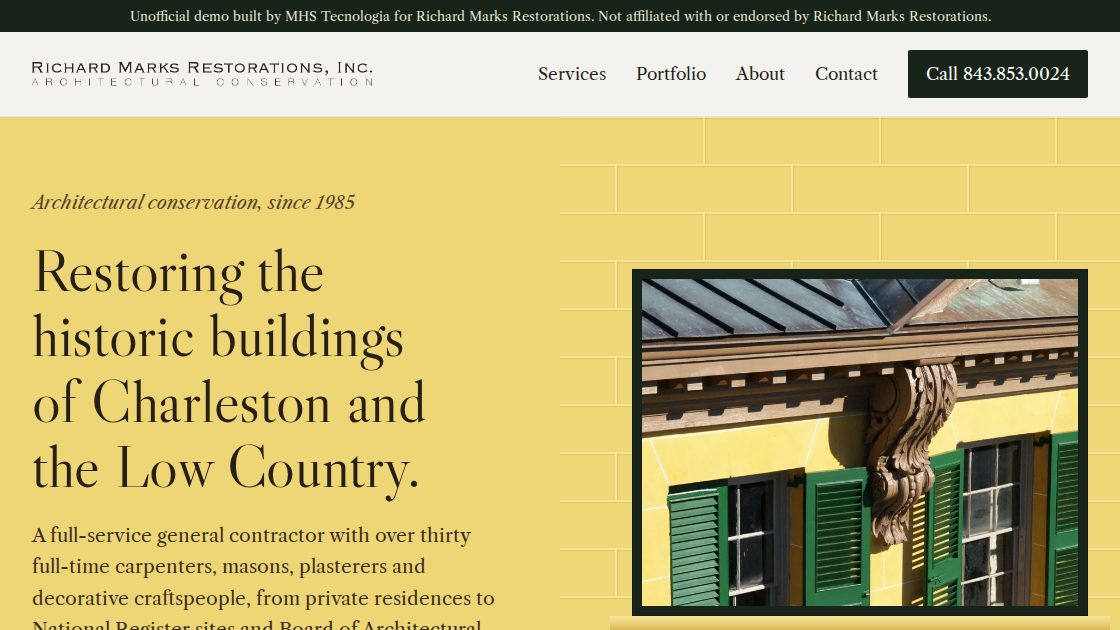
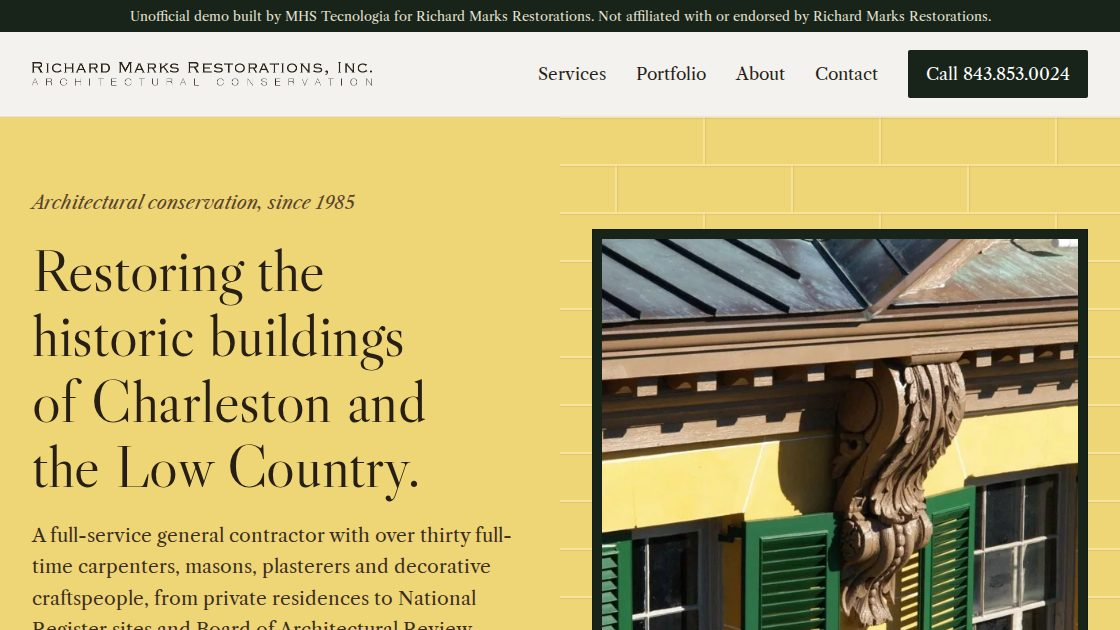
Previews: 79 ativos

Changed region(s): [[0.5312, 0.3619, 1.0, 1.0], [0.0312, 0.8444, 0.4688, 1.0]]

diff --git a/richard-marks-restorations-charleston-sc/index.html b/richard-marks-restorations-charleston-sc/index.html
@@ -71,20 +71,19 @@ p{margin:0 0 1em;max-width:62ch}
 .btn.line{background:transparent;color:var(--night)}
 .btn.line:hover{background:rgb(24 36 26/.08)}
 .btn svg{width:18px;height:18px;flex:none}
-.short{display:none}
 .actions{display:flex;flex-wrap:wrap;gap:12px;margin-top:28px}
 
 /* ------------------------------------------------------------------ hero: a window set in scored stucco */
-.hero{background:linear-gradient(90deg,var(--stucco) 50%,transparent 50%),var(--scoring) var(--stucco);background-position:0 0,-1px -1px;position:relative}
+.hero{background:linear-gradient(90deg,var(--stucco) 50%,transparent 50%),var(--scoring) var(--stucco);background-position:0 0,-1px -1px;position:relative;overflow-x:clip}
 .hero .wrap{display:grid;grid-template-columns:minmax(0,1fr) minmax(0,1fr);gap:0;align-items:stretch}
-.hero-copy{padding:72px 56px 76px 0}
+.hero-copy{padding:72px 48px 76px 0}
 .hero-copy p{font-size:1.1875rem;color:#3A2D20;margin-top:22px;max-width:34em}
 .hero-copy .since{font-style:italic;font-size:1.125rem;margin:0 0 18px;color:var(--wood)}
-.facade{padding:56px 0 0 72px;display:flex;flex-direction:column;justify-content:center}
-.window{position:relative;perspective:1200px;background:var(--night);padding:10px;box-shadow:inset 0 0 0 1px rgb(0 0 0/.2)}
-.window img{width:100%;aspect-ratio:4/3;object-fit:cover}
+.facade{padding:36px 0 0 32px;display:flex;flex-direction:column;justify-content:flex-end}
+.window{position:relative;perspective:1200px;background:var(--night);padding:10px;box-shadow:inset 0 0 0 1px rgb(0 0 0/.2);overflow:clip}
+.window img{width:100%;aspect-ratio:1/1;object-fit:cover;object-position:60% 50%}
 .sill{height:18px;margin:0 -22px;background:linear-gradient(#F7E6A0,#E3C565 60%,#C9A94A);box-shadow:0 10px 16px -8px rgb(70 50 10/.45)}
-.cap{font-style:italic;font-size:.9375rem;color:#4A3B2A;padding:14px 0 40px;margin:0}
+.cap{font-style:italic;font-size:.9375rem;color:#4A3B2A;padding:12px 0 28px;margin:0}
 .shutter{position:absolute;top:10px;bottom:10px;width:calc(50% - 10px);background:repeating-linear-gradient(180deg,#2B5A2D 0 9px,#1B3A1D 9px 12px);border:4px solid #224A24;box-shadow:inset 0 0 0 2px #18321A;transform-style:preserve-3d;backface-visibility:hidden;pointer-events:none}
 .shutter.l{left:10px;transform-origin:left center;animation:open-l 1.25s cubic-bezier(.5,0,.2,1) .35s both}
 .shutter.r{right:10px;transform-origin:right center;animation:open-r 1.25s cubic-bezier(.5,0,.2,1) .35s both}
@@ -146,9 +145,8 @@ section{padding:96px 0}
 .call-card .actions{margin-top:20px}
 
 /* services page */
-.svc{display:grid;grid-template-columns:minmax(0,5fr) minmax(0,7fr);gap:64px;align-items:start;padding:72px 0;border-bottom:1px solid #CFC8B8}
+.svc{display:grid;grid-template-columns:minmax(0,400px) minmax(0,1fr);gap:64px;align-items:start;padding:72px 0;border-bottom:1px solid #CFC8B8}
 .svc:last-child{border-bottom:0}
-.svc:nth-child(even) figure{order:2}
 .svc figure{margin:0}
 .svc figure img{width:100%;aspect-ratio:4/3;object-fit:cover}
 .svc h2{margin-bottom:22px}
@@ -228,7 +226,7 @@ section{padding:96px 0}
   .facade{order:-1;padding:14px 16px 0;background:var(--scoring);background-position:-1px -1px}
   .notice{font-size:.75rem;padding:6px 12px}
   .window{padding:6px}
-  .window img{aspect-ratio:16/9}
+  .window img{aspect-ratio:2/1;object-position:50% 50%}
   .shutter{top:6px;bottom:6px;width:calc(50% - 6px)}.shutter.l{left:6px}.shutter.r{right:6px}
   .sill{height:12px;margin:0 -10px}
   .cap{display:none}
@@ -237,8 +235,8 @@ section{padding:96px 0}
   .hero-copy p{font-size:1.0625rem;margin-top:14px;line-height:1.55}
   .actions{margin-top:20px}
   .lead-in,.shop,.founder,.svc,.bio,.contact,.call-card{grid-template-columns:1fr;gap:28px}
-  .svc:nth-child(even) figure{order:0}
   .trio{grid-template-columns:1fr;gap:44px}
+  .trio article img,.svc figure img{height:240px;aspect-ratio:auto}
   .firm-facts{grid-template-columns:1fr;gap:24px}
   .foot .cols{grid-template-columns:1fr}
   .founder img{max-width:260px}
@@ -251,10 +249,8 @@ section{padding:96px 0}
   .top .wrap{min-height:64px;gap:12px}
   .brand img{width:220px}
   section{padding:64px 0}
-  .hero-copy .actions{display:grid;grid-template-columns:1fr 1fr;gap:10px}
-  .hero-copy .actions .btn{padding:12px 10px}
-  .hero .long{display:none}
-  .hero .short{display:inline}
+  .hero-copy .actions{gap:10px;margin-top:18px}
+  .hero-copy .actions .btn{min-height:48px;flex:1 1 100%}
   .rooms{gap:28px 12px}
   .rooms .room{grid-column:span 6}
   .rooms .room.wide{grid-column:span 12}
@@ -298,7 +294,7 @@ section{padding:96px 0}
     <p class="since">Architectural conservation, since 1985</p>
     <h1>Restoring the historic buildings of Charleston and the Low Country.</h1>
     <p>A full-service general contractor with over thirty full-time carpenters, masons, plasterers and decorative craftspeople, from private residences to National Register sites and Board of Architectural Review submittals.</p>
-    <div class="actions"><a class="btn solid" href="tel:+18438530024"><svg viewBox="0 0 24 24" aria-hidden="true" fill="none" stroke="currentColor" stroke-width="1.8"><path d="M5 3h4l2 5-2.5 1.5a11 11 0 0 0 6 6L16 13l5 2v4a2 2 0 0 1-2 2A16 16 0 0 1 3 5a2 2 0 0 1 2-2z"/></svg>Call<span class="long"> 843.853.0024</span><span class="short"> office</span></a><a class="btn line" href="mailto:rmr@richardmarksrestorations.com?subject=Preservation%20project"><svg viewBox="0 0 24 24" aria-hidden="true" fill="none" stroke="currentColor" stroke-width="1.8"><rect x="3" y="5" width="18" height="14" rx="1"/><path d="m3 7 9 6 9-6"/></svg>Email<span class="long"> the office</span><span class="short"> office</span></a></div>
+    <div class="actions"><a class="btn solid" href="tel:+18438530024"><svg viewBox="0 0 24 24" aria-hidden="true" fill="none" stroke="currentColor" stroke-width="1.8"><path d="M5 3h4l2 5-2.5 1.5a11 11 0 0 0 6 6L16 13l5 2v4a2 2 0 0 1-2 2A16 16 0 0 1 3 5a2 2 0 0 1 2-2z"/></svg>Call 843.853.0024</a><a class="btn line" href="mailto:rmr@richardmarksrestorations.com?subject=Preservation%20project"><svg viewBox="0 0 24 24" aria-hidden="true" fill="none" stroke="currentColor" stroke-width="1.8"><rect x="3" y="5" width="18" height="14" rx="1"/><path d="m3 7 9 6 9-6"/></svg>Email the office</a></div>
   </div>
   <div class="facade">
     <figure class="window" style="margin:0">

diff --git a/richard-marks-restorations-charleston-sc/about.html b/richard-marks-restorations-charleston-sc/about.html
@@ -70,20 +70,19 @@ p{margin:0 0 1em;max-width:62ch}
 .btn.line{background:transparent;color:var(--night)}
 .btn.line:hover{background:rgb(24 36 26/.08)}
 .btn svg{width:18px;height:18px;flex:none}
-.short{display:none}
 .actions{display:flex;flex-wrap:wrap;gap:12px;margin-top:28px}
 
 /* ------------------------------------------------------------------ hero: a window set in scored stucco */
-.hero{background:linear-gradient(90deg,var(--stucco) 50%,transparent 50%),var(--scoring) var(--stucco);background-position:0 0,-1px -1px;position:relative}
+.hero{background:linear-gradient(90deg,var(--stucco) 50%,transparent 50%),var(--scoring) var(--stucco);background-position:0 0,-1px -1px;position:relative;overflow-x:clip}
 .hero .wrap{display:grid;grid-template-columns:minmax(0,1fr) minmax(0,1fr);gap:0;align-items:stretch}
-.hero-copy{padding:72px 56px 76px 0}
+.hero-copy{padding:72px 48px 76px 0}
 .hero-copy p{font-size:1.1875rem;color:#3A2D20;margin-top:22px;max-width:34em}
 .hero-copy .since{font-style:italic;font-size:1.125rem;margin:0 0 18px;color:var(--wood)}
-.facade{padding:56px 0 0 72px;display:flex;flex-direction:column;justify-content:center}
-.window{position:relative;perspective:1200px;background:var(--night);padding:10px;box-shadow:inset 0 0 0 1px rgb(0 0 0/.2)}
-.window img{width:100%;aspect-ratio:4/3;object-fit:cover}
+.facade{padding:36px 0 0 32px;display:flex;flex-direction:column;justify-content:flex-end}
+.window{position:relative;perspective:1200px;background:var(--night);padding:10px;box-shadow:inset 0 0 0 1px rgb(0 0 0/.2);overflow:clip}
+.window img{width:100%;aspect-ratio:1/1;object-fit:cover;object-position:60% 50%}
 .sill{height:18px;margin:0 -22px;background:linear-gradient(#F7E6A0,#E3C565 60%,#C9A94A);box-shadow:0 10px 16px -8px rgb(70 50 10/.45)}
-.cap{font-style:italic;font-size:.9375rem;color:#4A3B2A;padding:14px 0 40px;margin:0}
+.cap{font-style:italic;font-size:.9375rem;color:#4A3B2A;padding:12px 0 28px;margin:0}
 .shutter{position:absolute;top:10px;bottom:10px;width:calc(50% - 10px);background:repeating-linear-gradient(180deg,#2B5A2D 0 9px,#1B3A1D 9px 12px);border:4px solid #224A24;box-shadow:inset 0 0 0 2px #18321A;transform-style:preserve-3d;backface-visibility:hidden;pointer-events:none}
 .shutter.l{left:10px;transform-origin:left center;animation:open-l 1.25s cubic-bezier(.5,0,.2,1) .35s both}
 .shutter.r{right:10px;transform-origin:right center;animation:open-r 1.25s cubic-bezier(.5,0,.2,1) .35s both}
@@ -145,9 +144,8 @@ section{padding:96px 0}
 .call-card .actions{margin-top:20px}
 
 /* services page */
-.svc{display:grid;grid-template-columns:minmax(0,5fr) minmax(0,7fr);gap:64px;align-items:start;padding:72px 0;border-bottom:1px solid #CFC8B8}
+.svc{display:grid;grid-template-columns:minmax(0,400px) minmax(0,1fr);gap:64px;align-items:start;padding:72px 0;border-bottom:1px solid #CFC8B8}
 .svc:last-child{border-bottom:0}
-.svc:nth-child(even) figure{order:2}
 .svc figure{margin:0}
 .svc figure img{width:100%;aspect-ratio:4/3;object-fit:cover}
 .svc h2{margin-bottom:22px}
@@ -227,7 +225,7 @@ section{padding:96px 0}
   .facade{order:-1;padding:14px 16px 0;background:var(--scoring);background-position:-1px -1px}
   .notice{font-size:.75rem;padding:6px 12px}
   .window{padding:6px}
-  .window img{aspect-ratio:16/9}
+  .window img{aspect-ratio:2/1;object-position:50% 50%}
   .shutter{top:6px;bottom:6px;width:calc(50% - 6px)}.shutter.l{left:6px}.shutter.r{right:6px}
   .sill{height:12px;margin:0 -10px}
   .cap{display:none}
@@ -236,8 +234,8 @@ section{padding:96px 0}
   .hero-copy p{font-size:1.0625rem;margin-top:14px;line-height:1.55}
   .actions{margin-top:20px}
   .lead-in,.shop,.founder,.svc,.bio,.contact,.call-card{grid-template-columns:1fr;gap:28px}
-  .svc:nth-child(even) figure{order:0}
   .trio{grid-template-columns:1fr;gap:44px}
+  .trio article img,.svc figure img{height:240px;aspect-ratio:auto}
   .firm-facts{grid-template-columns:1fr;gap:24px}
   .foot .cols{grid-template-columns:1fr}
   .founder img{max-width:260px}
@@ -250,10 +248,8 @@ section{padding:96px 0}
   .top .wrap{min-height:64px;gap:12px}
   .brand img{width:220px}
   section{padding:64px 0}
-  .hero-copy .actions{display:grid;grid-template-columns:1fr 1fr;gap:10px}
-  .hero-copy .actions .btn{padding:12px 10px}
-  .hero .long{display:none}
-  .hero .short{display:inline}
+  .hero-copy .actions{gap:10px;margin-top:18px}
+  .hero-copy .actions .btn{min-height:48px;flex:1 1 100%}
   .rooms{gap:28px 12px}
   .rooms .room{grid-column:span 6}
   .rooms .room.wide{grid-column:span 12}

diff --git a/richard-marks-restorations-charleston-sc/contact.html b/richard-marks-restorations-charleston-sc/contact.html
@@ -70,20 +70,19 @@ p{margin:0 0 1em;max-width:62ch}
 .btn.line{background:transparent;color:var(--night)}
 .btn.line:hover{background:rgb(24 36 26/.08)}
 .btn svg{width:18px;height:18px;flex:none}
-.short{display:none}
 .actions{display:flex;flex-wrap:wrap;gap:12px;margin-top:28px}
 
 /* ------------------------------------------------------------------ hero: a window set in scored stucco */
-.hero{background:linear-gradient(90deg,var(--stucco) 50%,transparent 50%),var(--scoring) var(--stucco);background-position:0 0,-1px -1px;position:relative}
+.hero{background:linear-gradient(90deg,var(--stucco) 50%,transparent 50%),var(--scoring) var(--stucco);background-position:0 0,-1px -1px;position:relative;overflow-x:clip}
 .hero .wrap{display:grid;grid-template-columns:minmax(0,1fr) minmax(0,1fr);gap:0;align-items:stretch}
-.hero-copy{padding:72px 56px 76px 0}
+.hero-copy{padding:72px 48px 76px 0}
 .hero-copy p{font-size:1.1875rem;color:#3A2D20;margin-top:22px;max-width:34em}
 .hero-copy .since{font-style:italic;font-size:1.125rem;margin:0 0 18px;color:var(--wood)}
-.facade{padding:56px 0 0 72px;display:flex;flex-direction:column;justify-content:center}
-.window{position:relative;perspective:1200px;background:var(--night);padding:10px;box-shadow:inset 0 0 0 1px rgb(0 0 0/.2)}
-.window img{width:100%;aspect-ratio:4/3;object-fit:cover}
+.facade{padding:36px 0 0 32px;display:flex;flex-direction:column;justify-content:flex-end}
+.window{position:relative;perspective:1200px;background:var(--night);padding:10px;box-shadow:inset 0 0 0 1px rgb(0 0 0/.2);overflow:clip}
+.window img{width:100%;aspect-ratio:1/1;object-fit:cover;object-position:60% 50%}
 .sill{height:18px;margin:0 -22px;background:linear-gradient(#F7E6A0,#E3C565 60%,#C9A94A);box-shadow:0 10px 16px -8px rgb(70 50 10/.45)}
-.cap{font-style:italic;font-size:.9375rem;color:#4A3B2A;padding:14px 0 40px;margin:0}
+.cap{font-style:italic;font-size:.9375rem;color:#4A3B2A;padding:12px 0 28px;margin:0}
 .shutter{position:absolute;top:10px;bottom:10px;width:calc(50% - 10px);background:repeating-linear-gradient(180deg,#2B5A2D 0 9px,#1B3A1D 9px 12px);border:4px solid #224A24;box-shadow:inset 0 0 0 2px #18321A;transform-style:preserve-3d;backface-visibility:hidden;pointer-events:none}
 .shutter.l{left:10px;transform-origin:left center;animation:open-l 1.25s cubic-bezier(.5,0,.2,1) .35s both}
 .shutter.r{right:10px;transform-origin:right center;animation:open-r 1.25s cubic-bezier(.5,0,.2,1) .35s both}
@@ -145,9 +144,8 @@ section{padding:96px 0}
 .call-card .actions{margin-top:20px}
 
 /* services page */
-.svc{display:grid;grid-template-columns:minmax(0,5fr) minmax(0,7fr);gap:64px;align-items:start;padding:72px 0;border-bottom:1px solid #CFC8B8}
+.svc{display:grid;grid-template-columns:minmax(0,400px) minmax(0,1fr);gap:64px;align-items:start;padding:72px 0;border-bottom:1px solid #CFC8B8}
 .svc:last-child{border-bottom:0}
-.svc:nth-child(even) figure{order:2}
 .svc figure{margin:0}
 .svc figure img{width:100%;aspect-ratio:4/3;object-fit:cover}
 .svc h2{margin-bottom:22px}
@@ -227,7 +225,7 @@ section{padding:96px 0}
   .facade{order:-1;padding:14px 16px 0;background:var(--scoring);background-position:-1px -1px}
   .notice{font-size:.75rem;padding:6px 12px}
   .window{padding:6px}
-  .window img{aspect-ratio:16/9}
+  .window img{aspect-ratio:2/1;object-position:50% 50%}
   .shutter{top:6px;bottom:6px;width:calc(50% - 6px)}.shutter.l{left:6px}.shutter.r{right:6px}
   .sill{height:12px;margin:0 -10px}
   .cap{display:none}
@@ -236,8 +234,8 @@ section{padding:96px 0}
   .hero-copy p{font-size:1.0625rem;margin-top:14px;line-height:1.55}
   .actions{margin-top:20px}
   .lead-in,.shop,.founder,.svc,.bio,.contact,.call-card{grid-template-columns:1fr;gap:28px}
-  .svc:nth-child(even) figure{order:0}
   .trio{grid-template-columns:1fr;gap:44px}
+  .trio article img,.svc figure img{height:240px;aspect-ratio:auto}
   .firm-facts{grid-template-columns:1fr;gap:24px}
   .foot .cols{grid-template-columns:1fr}
   .founder img{max-width:260px}
@@ -250,10 +248,8 @@ section{padding:96px 0}
   .top .wrap{min-height:64px;gap:12px}
   .brand img{width:220px}
   section{padding:64px 0}
-  .hero-copy .actions{display:grid;grid-template-columns:1fr 1fr;gap:10px}
-  .hero-copy .actions .btn{padding:12px 10px}
-  .hero .long{display:none}
-  .hero .short{display:inline}
+  .hero-copy .actions{gap:10px;margin-top:18px}
+  .hero-copy .actions .btn{min-height:48px;flex:1 1 100%}
   .rooms{gap:28px 12px}
   .rooms .room{grid-column:span 6}
   .rooms .room.wide{grid-column:span 12}

diff --git a/richard-marks-restorations-charleston-sc/portfolio.html b/richard-marks-restorations-charleston-sc/portfolio.html
@@ -71,20 +71,19 @@ p{margin:0 0 1em;max-width:62ch}
 .btn.line{background:transparent;color:var(--night)}
 .btn.line:hover{background:rgb(24 36 26/.08)}
 .btn svg{width:18px;height:18px;flex:none}
-.short{display:none}
 .actions{display:flex;flex-wrap:wrap;gap:12px;margin-top:28px}
 
 /* ------------------------------------------------------------------ hero: a window set in scored stucco */
-.hero{background:linear-gradient(90deg,var(--stucco) 50%,transparent 50%),var(--scoring) var(--stucco);background-position:0 0,-1px -1px;position:relative}
+.hero{background:linear-gradient(90deg,var(--stucco) 50%,transparent 50%),var(--scoring) var(--stucco);background-position:0 0,-1px -1px;position:relative;overflow-x:clip}
 .hero .wrap{display:grid;grid-template-columns:minmax(0,1fr) minmax(0,1fr);gap:0;align-items:stretch}
-.hero-copy{padding:72px 56px 76px 0}
+.hero-copy{padding:72px 48px 76px 0}
 .hero-copy p{font-size:1.1875rem;color:#3A2D20;margin-top:22px;max-width:34em}
 .hero-copy .since{font-style:italic;font-size:1.125rem;margin:0 0 18px;color:var(--wood)}
-.facade{padding:56px 0 0 72px;display:flex;flex-direction:column;justify-content:center}
-.window{position:relative;perspective:1200px;background:var(--night);padding:10px;box-shadow:inset 0 0 0 1px rgb(0 0 0/.2)}
-.window img{width:100%;aspect-ratio:4/3;object-fit:cover}
+.facade{padding:36px 0 0 32px;display:flex;flex-direction:column;justify-content:flex-end}
+.window{position:relative;perspective:1200px;background:var(--night);padding:10px;box-shadow:inset 0 0 0 1px rgb(0 0 0/.2);overflow:clip}
+.window img{width:100%;aspect-ratio:1/1;object-fit:cover;object-position:60% 50%}
 .sill{height:18px;margin:0 -22px;background:linear-gradient(#F7E6A0,#E3C565 60%,#C9A94A);box-shadow:0 10px 16px -8px rgb(70 50 10/.45)}
-.cap{font-style:italic;font-size:.9375rem;color:#4A3B2A;padding:14px 0 40px;margin:0}
+.cap{font-style:italic;font-size:.9375rem;color:#4A3B2A;padding:12px 0 28px;margin:0}
 .shutter{position:absolute;top:10px;bottom:10px;width:calc(50% - 10px);background:repeating-linear-gradient(180deg,#2B5A2D 0 9px,#1B3A1D 9px 12px);border:4px solid #224A24;box-shadow:inset 0 0 0 2px #18321A;transform-style:preserve-3d;backface-visibility:hidden;pointer-events:none}
 .shutter.l{left:10px;transform-origin:left center;animation:open-l 1.25s cubic-bezier(.5,0,.2,1) .35s both}
 .shutter.r{right:10px;transform-origin:right center;animation:open-r 1.25s cubic-bezier(.5,0,.2,1) .35s both}
@@ -146,9 +145,8 @@ section{padding:96px 0}
 .call-card .actions{margin-top:20px}
 
 /* services page */
-.svc{display:grid;grid-template-columns:minmax(0,5fr) minmax(0,7fr);gap:64px;align-items:start;padding:72px 0;border-bottom:1px solid #CFC8B8}
+.svc{display:grid;grid-template-columns:minmax(0,400px) minmax(0,1fr);gap:64px;align-items:start;padding:72px 0;border-bottom:1px solid #CFC8B8}
 .svc:last-child{border-bottom:0}
-.svc:nth-child(even) figure{order:2}
 .svc figure{margin:0}
 .svc figure img{width:100%;aspect-ratio:4/3;object-fit:cover}
 .svc h2{margin-bottom:22px}
@@ -228,7 +226,7 @@ section{padding:96px 0}
   .facade{order:-1;padding:14px 16px 0;background:var(--scoring);background-position:-1px -1px}
   .notice{font-size:.75rem;padding:6px 12px}
   .window{padding:6px}
-  .window img{aspect-ratio:16/9}
+  .window img{aspect-ratio:2/1;object-position:50% 50%}
   .shutter{top:6px;bottom:6px;width:calc(50% - 6px)}.shutter.l{left:6px}.shutter.r{right:6px}
   .sill{height:12px;margin:0 -10px}
   .cap{display:none}
@@ -237,8 +235,8 @@ section{padding:96px 0}
   .hero-copy p{font-size:1.0625rem;margin-top:14px;line-height:1.55}
   .actions{margin-top:20px}
   .lead-in,.shop,.founder,.svc,.bio,.contact,.call-card{grid-template-columns:1fr;gap:28px}
-  .svc:nth-child(even) figure{order:0}
   .trio{grid-template-columns:1fr;gap:44px}
+  .trio article img,.svc figure img{height:240px;aspect-ratio:auto}
   .firm-facts{grid-template-columns:1fr;gap:24px}
   .foot .cols{grid-template-columns:1fr}
   .founder img{max-width:260px}
@@ -251,10 +249,8 @@ section{padding:96px 0}
   .top .wrap{min-height:64px;gap:12px}
   .brand img{width:220px}
   section{padding:64px 0}
-  .hero-copy .actions{display:grid;grid-template-columns:1fr 1fr;gap:10px}
-  .hero-copy .actions .btn{padding:12px 10px}
-  .hero .long{display:none}
-  .hero .short{display:inline}
+  .hero-copy .actions{gap:10px;margin-top:18px}
+  .hero-copy .actions .btn{min-height:48px;flex:1 1 100%}
   .rooms{gap:28px 12px}
   .rooms .room{grid-column:span 6}
   .rooms .room.wide{grid-column:span 12}

diff --git a/richard-marks-restorations-charleston-sc/services.html b/richard-marks-restorations-charleston-sc/services.html
@@ -70,20 +70,19 @@ p{margin:0 0 1em;max-width:62ch}
 .btn.line{background:transparent;color:var(--night)}
 .btn.line:hover{background:rgb(24 36 26/.08)}
 .btn svg{width:18px;height:18px;flex:none}
-.short{display:none}
 .actions{display:flex;flex-wrap:wrap;gap:12px;margin-top:28px}
 
 /* ------------------------------------------------------------------ hero: a window set in scored stucco */
-.hero{background:linear-gradient(90deg,var(--stucco) 50%,transparent 50%),var(--scoring) var(--stucco);background-position:0 0,-1px -1px;position:relative}
+.hero{background:linear-gradient(90deg,var(--stucco) 50%,transparent 50%),var(--scoring) var(--stucco);background-position:0 0,-1px -1px;position:relative;overflow-x:clip}
 .hero .wrap{display:grid;grid-template-columns:minmax(0,1fr) minmax(0,1fr);gap:0;align-items:stretch}
-.hero-copy{padding:72px 56px 76px 0}
+.hero-copy{padding:72px 48px 76px 0}
 .hero-copy p{font-size:1.1875rem;color:#3A2D20;margin-top:22px;max-width:34em}
 .hero-copy .since{font-style:italic;font-size:1.125rem;margin:0 0 18px;color:var(--wood)}
-.facade{padding:56px 0 0 72px;display:flex;flex-direction:column;justify-content:center}
-.window{position:relative;perspective:1200px;background:var(--night);padding:10px;box-shadow:inset 0 0 0 1px rgb(0 0 0/.2)}
-.window img{width:100%;aspect-ratio:4/3;object-fit:cover}
+.facade{padding:36px 0 0 32px;display:flex;flex-direction:column;justify-content:flex-end}
+.window{position:relative;perspective:1200px;background:var(--night);padding:10px;box-shadow:inset 0 0 0 1px rgb(0 0 0/.2);overflow:clip}
+.window img{width:100%;aspect-ratio:1/1;object-fit:cover;object-position:60% 50%}
 .sill{height:18px;margin:0 -22px;background:linear-gradient(#F7E6A0,#E3C565 60%,#C9A94A);box-shadow:0 10px 16px -8px rgb(70 50 10/.45)}
-.cap{font-style:italic;font-size:.9375rem;color:#4A3B2A;padding:14px 0 40px;margin:0}
+.cap{font-style:italic;font-size:.9375rem;color:#4A3B2A;padding:12px 0 28px;margin:0}
 .shutter{position:absolute;top:10px;bottom:10px;width:calc(50% - 10px);background:repeating-linear-gradient(180deg,#2B5A2D 0 9px,#1B3A1D 9px 12px);border:4px solid #224A24;box-shadow:inset 0 0 0 2px #18321A;transform-style:preserve-3d;backface-visibility:hidden;pointer-events:none}
 .shutter.l{left:10px;transform-origin:left center;animation:open-l 1.25s cubic-bezier(.5,0,.2,1) .35s both}
 .shutter.r{right:10px;transform-origin:right center;animation:open-r 1.25s cubic-bezier(.5,0,.2,1) .35s both}
@@ -145,9 +144,8 @@ section{padding:96px 0}
 .call-card .actions{margin-top:20px}
 
 /* services page */
-.svc{display:grid;grid-template-columns:minmax(0,5fr) minmax(0,7fr);gap:64px;align-items:start;padding:72px 0;border-bottom:1px solid #CFC8B8}
+.svc{display:grid;grid-template-columns:minmax(0,400px) minmax(0,1fr);gap:64px;align-items:start;padding:72px 0;border-bottom:1px solid #CFC8B8}
 .svc:last-child{border-bottom:0}
-.svc:nth-child(even) figure{order:2}
 .svc figure{margin:0}
 .svc figure img{width:100%;aspect-ratio:4/3;object-fit:cover}
 .svc h2{margin-bottom:22px}
@@ -227,7 +225,7 @@ section{padding:96px 0}
   .facade{order:-1;padding:14px 16px 0;background:var(--scoring);background-position:-1px -1px}
   .notice{font-size:.75rem;padding:6px 12px}
   .window{padding:6px}
-  .window img{aspect-ratio:16/9}
+  .window img{aspect-ratio:2/1;object-position:50% 50%}
   .shutter{top:6px;bottom:6px;width:calc(50% - 6px)}.shutter.l{left:6px}.shutter.r{right:6px}
   .sill{height:12px;margin:0 -10px}
   .cap{display:none}
@@ -236,8 +234,8 @@ section{padding:96px 0}
   .hero-copy p{font-size:1.0625rem;margin-top:14px;line-height:1.55}
   .actions{margin-top:20px}
   .lead-in,.shop,.founder,.svc,.bio,.contact,.call-card{grid-template-columns:1fr;gap:28px}
-  .svc:nth-child(even) figure{order:0}
   .trio{grid-template-columns:1fr;gap:44px}
+  .trio article img,.svc figure img{height:240px;aspect-ratio:auto}
   .firm-facts{grid-template-columns:1fr;gap:24px}
   .foot .cols{grid-template-columns:1fr}
   .founder img{max-width:260px}
@@ -250,10 +248,8 @@ section{padding:96px 0}
   .top .wrap{min-height:64px;gap:12px}
   .brand img{width:220px}
   section{padding:64px 0}
-  .hero-copy .actions{display:grid;grid-template-columns:1fr 1fr;gap:10px}
-  .hero-copy .actions .btn{padding:12px 10px}
-  .hero .long{display:none}
-  .hero .short{display:inline}
+  .hero-copy .actions{gap:10px;margin-top:18px}
+  .hero-copy .actions .btn{min-height:48px;flex:1 1 100%}
   .rooms{gap:28px 12px}
   .rooms .room{grid-column:span 6}
   .rooms .room.wide{grid-column:span 12}
